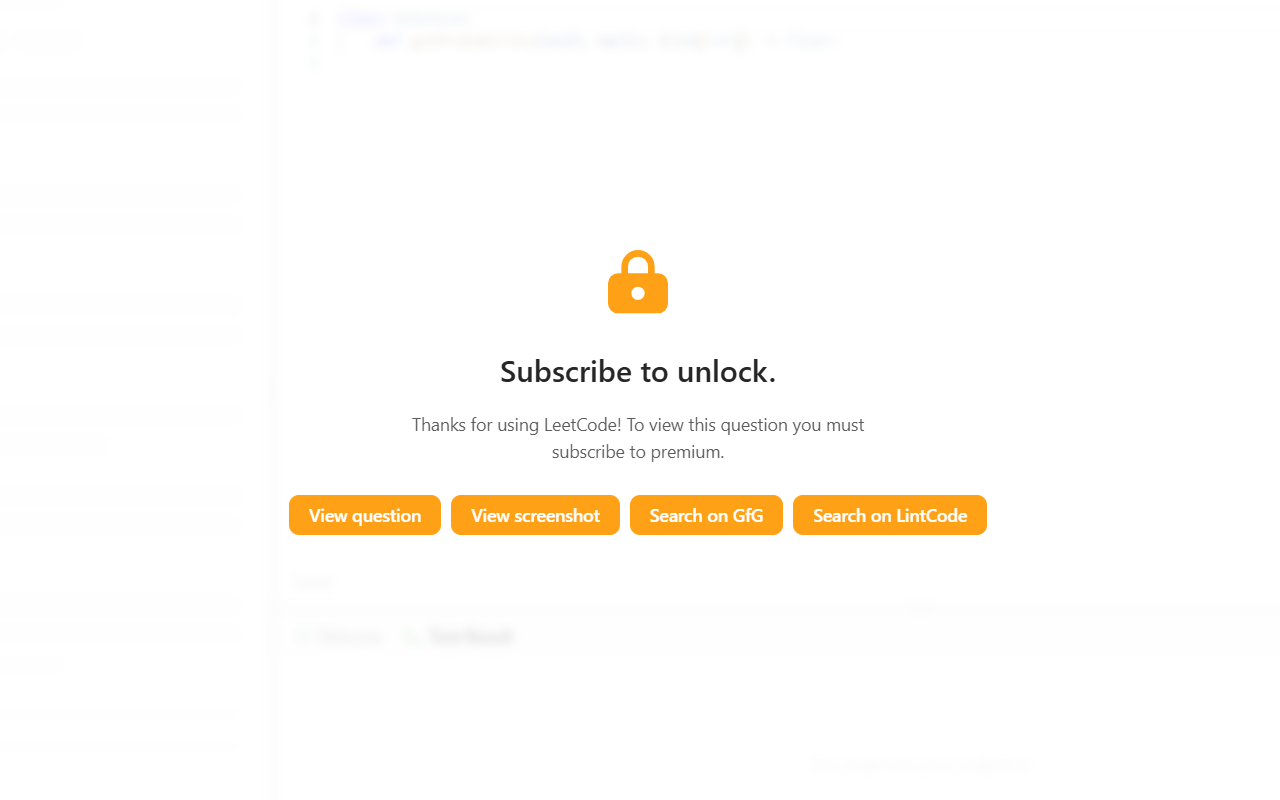
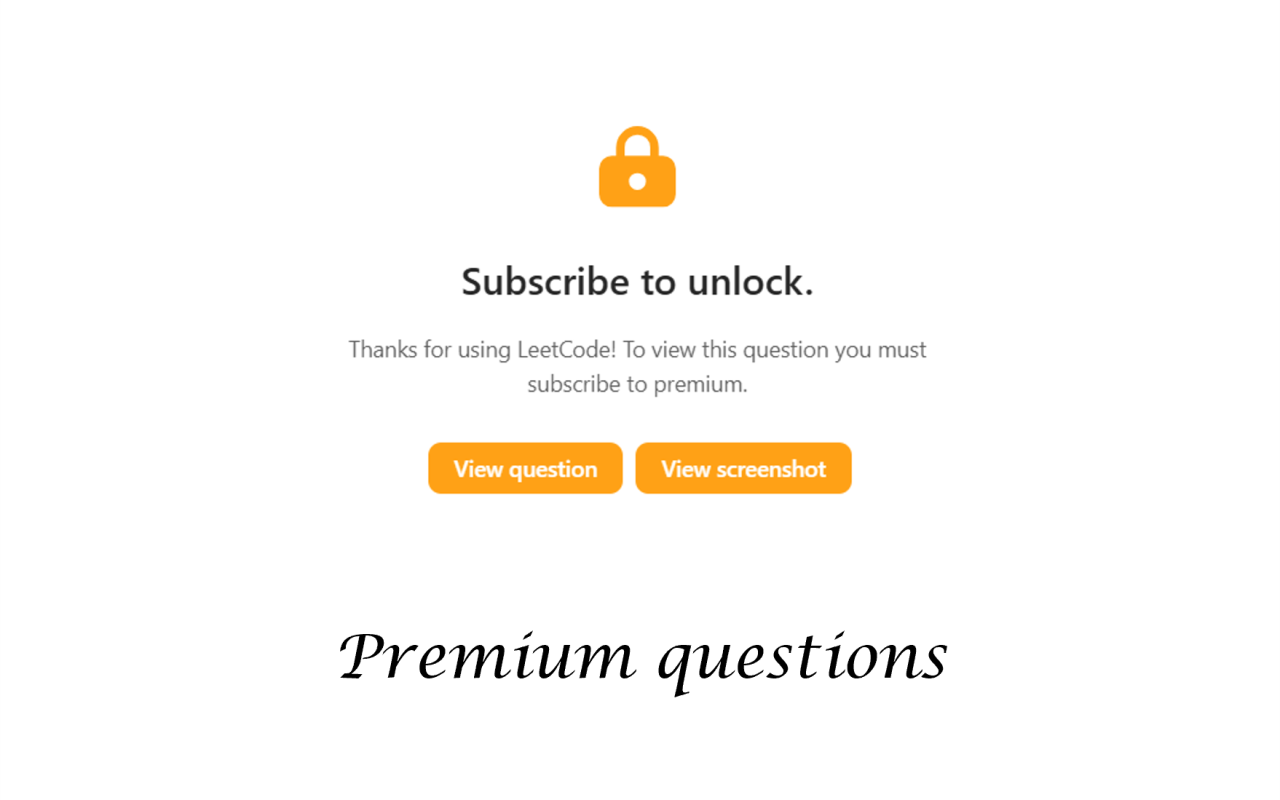
docs: update readme

diff --git a/README.md b/README.md
@@ -2,18 +2,20 @@
 
 > A browser extension to improve the LeetCode experience.
 
-<!-- <div align="center">
+<div>
     <a href="https://chromewebstore.google.com/detail/leetcode-enhancer/cpoclfijojgjiafnlgnhjalkaiabcjch">
-        <img src="https://img.shields.io/chrome-web-store/users/dlaogejjiafeobgofajdlkkhjlignalk?logo=googlechrome&logoColor=ffffff&color=0779ba"></a>
+        <img src="https://img.shields.io/chrome-web-store/users/cpoclfijojgjiafnlgnhjalkaiabcjch?logo=googlechrome&logoColor=ffffff&color=0779ba"></a>
     <a href="https://addons.mozilla.org/en-US/firefox/addon/leetcodeenhancer/">
-        <img src="https://img.shields.io/amo/users/tablissng?logo=firefoxbrowser&logoColor=ffffff"></a>
+        <img src="https://img.shields.io/amo/users/leetcodeenhancer?logo=firefoxbrowser&logoColor=ffffff"></a>
     <a href="https://www.star-history.com/?repos=Sbrjt%2Fleetcode-enhancer">
         <img src="https://img.shields.io/github/stars/Sbrjt/leetcode-enhancer?style=flat"></a>
     <a href="https://github.com/Sbrjt/leetcode-enhancer/commits/main/">
         <img src="https://img.shields.io/github/last-commit/Sbrjt/leetcode-enhancer?color=0779ba"></a>
     <a href="https://github.com/Sbrjt/leetcode-enhancer/releases/latest">
-        <img src="https://img.shields.io/github/v/release/Sbrjt/leetcode-enhancer.svg?logo=github"></a>
-</div> -->
+        <img src="https://img.shields.io/github/v/release/Sbrjt/leetcode-enhancer.svg?logo=github&color=blue"></a>
+    <a href="https://wxt.dev">
+        <img src="https://img.shields.io/badge/Built with-WXT-blue?logo=wxt&logoColor=white" alt="Built with WXT"></a>
+</div>
 
 ### ✨ Features
 
@@ -22,16 +24,18 @@
 - Enable autocomplete (partial)
 - Copy code button
 - Return dislike button
-- Alternate links to premium problems
-- Screenshots of premium editorials
-- Company tags
-- Company-wise questions
+<!--
+- Premium problems and editorials
+- Company questions and tags  
+  -->
 
 ### ⏳ Todos
 
 - Contest notification
 - Code snippets
 - Hide/show certain stuffs
+- Friends leaderboards
+- Notion integration
 
 ### 📥 Download
 
@@ -42,90 +46,13 @@ You can also:
 
 - Download it from the [latest release](https://github.com/Sbrjt/leetcode-enhancer/releases/latest)
 - Try the latest GitHub Actions [artifact build](https://github.com/Sbrjt/leetcode-enhancer/actions/workflows/ci.yml)
-- Build it yourself from source (see below)
-
-<details>
-<summary><strong>Running locally</strong></summary>
-<br>
-
-This extension uses the wxt framework. See [docs](https://wxt.dev/guide/essentials/entrypoints.html).
-
-### Requirements
-
-- OS: any
-- Node.js >= 18
-
-Clone the repo and install dependencies:
-
-```bash
-git clone https://github.com/Sbrjt/leetcode-enhancer
-cd leetcode-enhancer
-cp .env.example .env
-
-npm i
-```
-
-### Dev server
-
-```bash
-npm run dev
-npm run dev:firefox
-```
-
-This launches a new Chrome profile with the extension installed. Hot reload is enabled.
-
-### Building
-
-```bash
-npm run build
-npm run build:firefox
-```
-
-Find the compiled files inside `.output/`.
-
-How to load:
-
-- Chrome: go to `chrome://extensions`, turn on devoloper mode and click on "Load unpacked". [Video](https://youtu.be/Ta-YTDhiBIQ?t=82).
-
-- Firefox: go to `about:debugging#/runtime/this-firefox` and click on "Load Temporary Add-on". [Doc](https://extensionworkshop.com/documentation/develop/temporary-installation-in-firefox).
-
-- Select suitable build in `.output/` folder.
-
-### Project Structure
-
-```bash
-📂 /
-    📁 .output/                 # find build outputs here
-    📁 public/                  # static assets
-    📂 src/
-        📁 entrypoints/
-            📄 background.ts    # background service worker
-            📂 content/         # content scripts
-            📂 popup/
-            📂 options/
-        📁 components/
-        📁 hooks/
-        📁 utils/
-    📄 wxt.config.ts            # manifest, vite, configs etc.
-    📄 package.json
-```
-
-Note: If you need extra help, just create an issue and I will help.
-
-</details>
-
-### 🤗 Credits
-
-- [leetcode_problem_rating](https://github.com/zerotrac/leetcode_problem_rating)
-- [leetcode-screenshotter](https://github.com/akhilkammila/leetcode-screenshotter)
-- [leetcode-companywise-interview-questions](https://github.com/snehasishroy/leetcode-companywise-interview-questions)
-- [wxt](https://github.com/wxt-dev/wxt)
+- Build it yourself from source. See [ONBOARDING.md](ONBOARDING.md).
 
 > [!CAUTION]
 > If LeetCode updates its UI, this extension may break.
 
-<!-- If you like my project, please gimme a star! ⭐💫
+If you like my project, please gimme a star! ⭐💫
 
-<picture><img src="https://img.shields.io/badge/PRs-welcome-green.svg"></picture> -->
+<picture><img src="https://img.shields.io/badge/PRs-welcome-green.svg"></picture>
 
 © Shubhrajit Sadhukhan :octocat:

diff --git a/ONBOARDING.md b/ONBOARDING.md
@@ -1,0 +1,151 @@
+### Requirements
+
+- OS: any
+- Node.js >= 18
+
+Clone the repo and install dependencies:
+
+```bash
+git clone https://github.com/Sbrjt/leetcode-enhancer
+cd leetcode-enhancer
+cp .env.example .env
+
+npm i
+```
+
+### Dev server
+
+```bash
+npm run dev
+npm run dev:firefox
+```
+
+This launches a new Chrome profile with the extension installed. Hot reload is enabled.
+
+### Building
+
+```bash
+npm run build
+npm run build:firefox
+```
+
+Find the compiled files inside `.output/`.
+
+How to load:
+
+- Chrome: go to `chrome://extensions`, turn on devoloper mode and click on "Load unpacked". [Video](https://youtu.be/Ta-YTDhiBIQ?t=82).
+
+- Firefox: go to `about:debugging#/runtime/this-firefox` and click on "Load Temporary Add-on". [Doc](https://extensionworkshop.com/documentation/develop/temporary-installation-in-firefox).
+
+- Select suitable build in `.output/` folder.
+
+Note: If you need extra help, just create an issue and I will help.
+
+### Project Structure
+
+```bash
+📂 /
+    📁 .output/                 # find build outputs here
+    📁 public/                  # static assets
+    📂 src/
+        📁 entrypoints/
+            📄 background.ts    # background service worker
+            📂 content/         # content scripts
+            📂 popup/
+            📂 options/
+        📁 components/
+        📁 hooks/
+        📁 utils/
+    📄 wxt.config.ts            # manifest, vite, configs etc.
+    📄 package.json
+```
+
+This extension uses the wxt framework. See [docs](https://wxt.dev/guide/essentials/entrypoints.html).
+
+<details>
+<summary>Using element-ready</summary>
+
+Let's say you're on LeetCode and want to select the main logo.
+
+Right-click on the logo in the top-left, and select Inspect to open DevTools. You'll find something like:
+
+```html
+<img
+    class="h-full"
+    alt="LeetCode Logo"
+    src="/_next/static/images/logo-dark-c96c407d175e36c81e236fcfdd682a0b.png"
+/>
+```
+
+To select this element, you can use:
+
+```js
+document.querySelector(`img[alt="LeetCode Logo"]`)
+```
+
+(Try pasting that into the browser console—you'll get the `<img>` element.)
+
+To modify it:
+
+```js
+const img = document.querySelector(`img[alt="LeetCode Logo"]`)
+img.src = 'https://c.tenor.com/x8v1oNUOmg4AAAAd/'
+```
+
+Most UI customizations in this extension work exactly like this.
+
+If you navigate to another page, the change will be gone. So we need to run this on every page.
+
+The Problem: SPAs
+
+LeetCode is an SPA, so navigating between pages changes the URL without reloading the page. This means we need to listen for route changes instead of page loads.
+
+Even after the URL changes, the element we're looking for might not exist yet because the page is still rendering. So we wait. We could do this with polling (`setInterval`) or `MutationObserver`.
+
+This project uses `element-ready`, which is a convenient wrapper around `MutationObserver`.
+
+```js
+const img = await elementReady('img[alt="LeetCode Logo"]')
+// the promise resolves when the element appears in the DOM
+```
+
+Using It Inside a Hook:
+
+```js
+useEffect(() => {
+	const controller = new AbortController()
+	const { signal } = controller
+
+	;(async () => {
+		const target = await elementReady('img[alt="LeetCode Logo"]', { signal })
+
+		if (!target || signal.aborted) return
+
+		target.src = 'https://c.tenor.com/x8v1oNUOmg4AAAAd/'
+	})()
+
+	return () => {
+		controller.abort()
+	}
+}, [])
+```
+
+At first glance this looks a little scary, but most of it is just cleanup logic.
+
+Why Do We Need Cleanup?
+
+Imagine this: User opens Page 1. `elementReady()` starts waiting for some target. The element never appears. User navigates to Page 2. A new hook runs and creates another observer. Now you have two active observers and you may end up with duplicate UI injections! So it's important to kill the observer when the hook unmounts.
+
+Also, if you inject buttons, badges, etc, those changes should be removed when leaving the page. Otherwise you may end up with duplicate UI or unexpected behavior because remnants of the previous injection are still there.
+
+You'll find all the hooks here: [`src/entrypoints/content/hooks`](./src/entrypoints/content/hooks)
+
+</details>
+
+### 🤗 Credits
+
+- [leetcode_problem_rating](https://github.com/zerotrac/leetcode_problem_rating)
+- [leetcode-screenshotter](https://github.com/akhilkammila/leetcode-screenshotter)
+- [leetcode-companywise-interview-questions](https://github.com/snehasishroy/leetcode-companywise-interview-questions)
+- [element-ready](https://github.com/sindresorhus/element-ready)
+- [wxt](https://github.com/wxt-dev/wxt)

diff --git a/AGENTS.md b/AGENTS.md
@@ -1,5 +1,7 @@
 ## General
 
+- Follow YAGNI principles. Use caveman mode.
+
 - This project uses WXT.
   - Entrypoints: https://wxt.dev/guide/essentials/entrypoints.html
   - Project structure: https://wxt.dev/guide/essentials/project-structure.html
